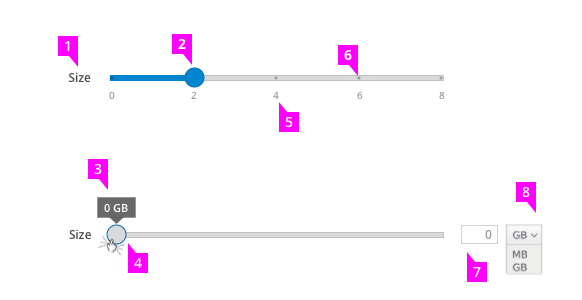
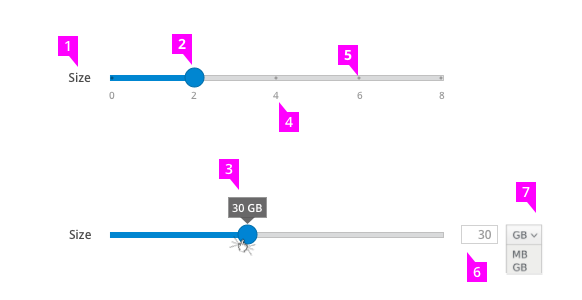
Updating based on feedback.

diff --git a/pattern-library/forms-and-controls/slider/design/design.md b/pattern-library/forms-and-controls/slider/design/design.md
@@ -2,27 +2,26 @@
 
 ![Image of Slider 1](img/Slider-01.png)
 
-1. **Title:** There should be a slider title to the left of the slider, indicating what the slider values represent. A text string or an icon may be used in the title position.
+1. **Label:** There should be a slider label to the left of the slider, indicating what the slider values represent. A text string or an icon may be used in the label position.
 
 2. **Slider Handle:**
-  - The slider handle should sit on the selected value
+  - The slider handle should sit on the selected value.
   - The slider handle should move when users click and drag, when users click on a new area along the slide, and when users enter a new value in the field input.
-  - The slide area to the left of the handle should be highlighted in blue, with the slide area to the right in grey
+  - For discrete sliders, the handle should snap to the closest tic mark value.
+  - The slide area to the left of the handle should be highlighted in blue, with the slide area to the right in grey.
 
 3. **Tooltip:** The current value should be displayed in a tooltip when users hover or click on the slider handle.
 
-4. **Empty State:** The slider handle should be grey when indicating the value is zero.
-
-5. **Numeric Scale** (Optional):
+4. **Numeric Scale** (Optional):
   - A numeric scale may be displayed below the slider.
   - Displaying a numeric scale is recommended when using a discrete slider that snaps to specific values.
   - Note: The scale is not required to denote ALL discrete values.  
 
-6. **Discrete Values** (Optional): When using a discrete scale, each available value may be indicated using marks along the slider. The marks make it clear to users when the slider will snap to specific values.
+5. **Discrete Values** (Optional): When using a discrete scale, each available value may be indicated using marks along the slider. The marks make it clear to users when the slider will snap to specific values.
 
-7. **Field Input** (Optional): The slider can optionally have a field input on the right side to enter the desired value as an alternative to sliding. The slider button should move to indicate the value entered.
+6. **Field Input** (Optional): The slider can optionally have a field input on the right side to enter the desired value as an alternative to sliding. The slider button should move to indicate the value entered.
 
-8. **Unit Dropdown** (Optional): A dropdown may be provided in conjunction with the field input if various units are available for selection.
+7. **Unit Dropdown** (Optional): A dropdown may be provided in conjunction with the field input if various units are available for selection.
 
 ## Slider Examples
 ![Image of Slider 3](img/Slider-03.png)
@@ -34,5 +33,3 @@
 - Sliders with two draggable handles, allowing users to set a range
 - Vertical sliders
 - Sliders with interactive buttons, allowing users to jump to specific values without dragging the slider handle
-
-![Image of Slider 4](img/Slider-04.png)
